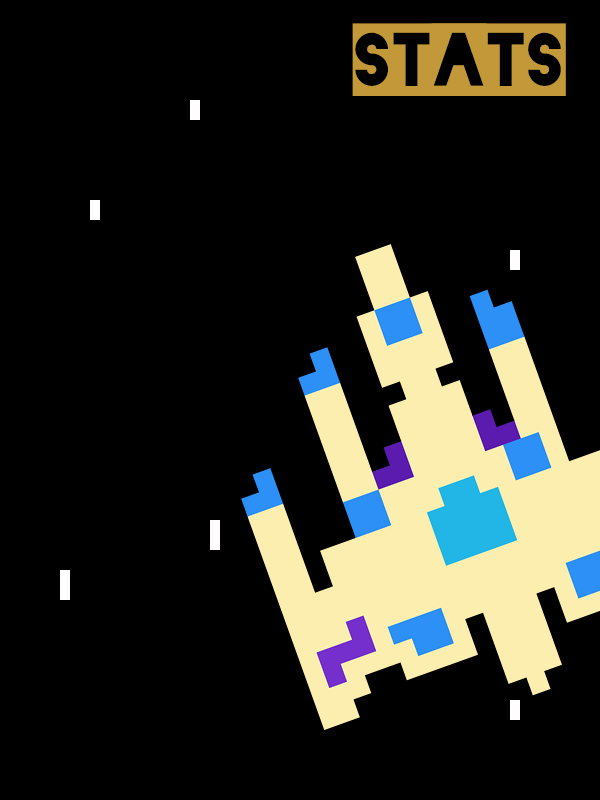
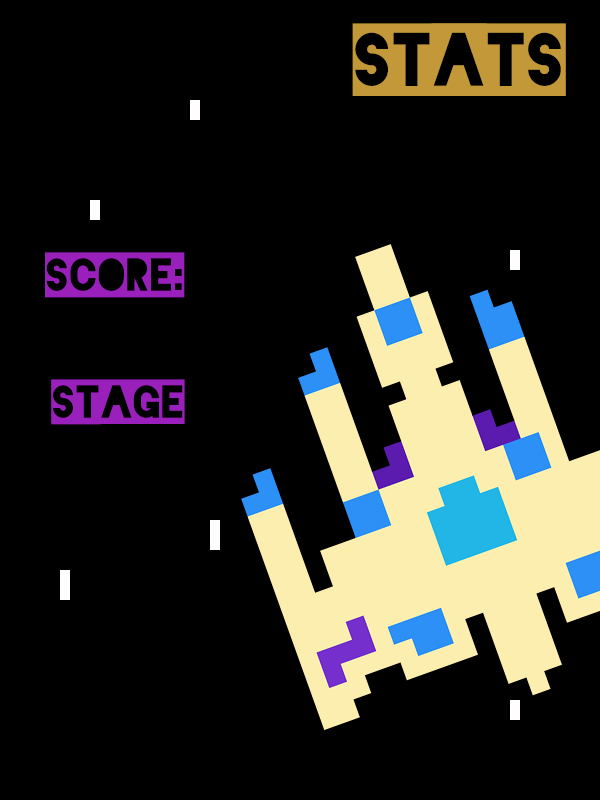
fixed score labels at  ending

Changed region(s): [[0.06, 0.4688, 0.33, 0.5312], [0.06, 0.3125, 0.33, 0.375]]

diff --git a/MyWorld.java b/MyWorld.java
@@ -24,8 +24,8 @@ public class MyWorld extends World
   GifImage gifImage = new GifImage("galaxyBackground.gif");
   // background initialization
   GreenfootSound backTrack = new GreenfootSound("backTrack.mp3");
+  
     
-
           
 
     /**
@@ -60,9 +60,11 @@ public class MyWorld extends World
         setBackground(gifImage.getCurrentImage());
         // making background move
         if(h == 2){
+            
             heart.secondLife();
         }
         if(h == 1){
+            
             heart.lastLife();
         }
         if(h == 0){

diff --git a/EndScreen.java b/EndScreen.java
@@ -21,8 +21,12 @@ public class EndScreen extends World
         super(600, 800, 1); 
         this.score= score;
         this.stage = stage;
-        Label gameOverLabel = new Label(score, 70);
-        addObject(gameOverLabel, 100, getHeight()/2);
+
+        Label scoreLabel = new Label(score, 70);
+        addObject(scoreLabel, 100, getHeight()/2 - 60);
+        
+        Label stageLabel = new Label(stage, 70);
+        addObject(stageLabel, 100, getHeight()/2 + 50);
     }
     public void act(){
         if(Greenfoot.isKeyDown("r"))
